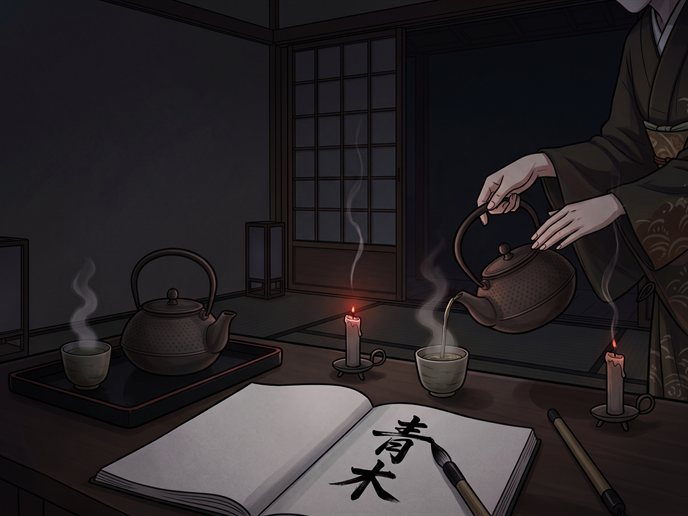
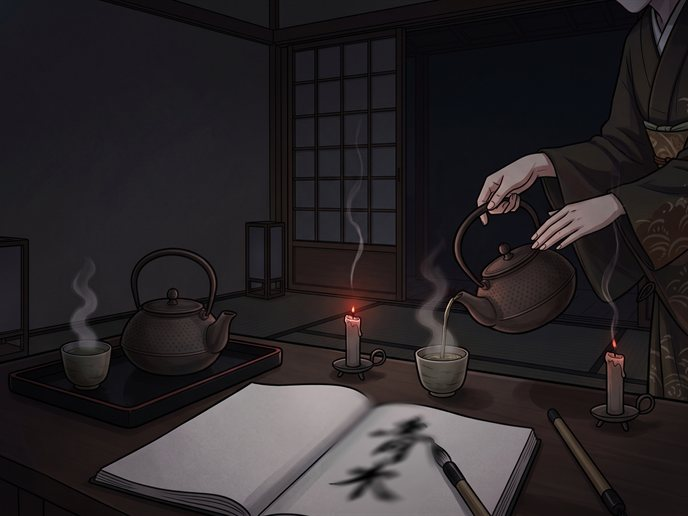
Smudge the name written in the guest book at midnight
The generated scene wrote a legible name on the page - the kanji 青犬, which
a Japanese reader reads as words rather than as a name. The guest book scene
in Ending 5 keeps its ink illegible for the same reason.

Asking the model for an illegible signature came back worse: a scrawl across
both pages. So the ink in this one is dragged instead - 26px each way along
the brush, with a 6px softening, blended inside a feathered ellipse in the
2400 x 1792 source. The edit has no edge of its own, and the brush, the
teapot, her hands and the candles are untouched.

The file is 42 KB at the same 688 x 516 and mean brightness 40. DESIGN.md
records the recipe, so it can be redone if the source is ever regenerated.

Changed region(s): [[0.4884, 0.7442, 0.641, 0.9922]]

diff --git a/DESIGN.md b/DESIGN.md
@@ -630,6 +630,14 @@ says the curse is behind you.
   the picture is the moment *after* midnight, the night already decided. At a
   mean brightness of 39 out of 255 it is by far the darkest of the eight, and
   the HUD still reads over it because its washi panel is 90% opaque.
+  **The name on the page is smudged on purpose.** What came back from the
+  model was legible kanji (青犬), which a Japanese reader reads as words, not
+  as a name; the guest book scene keeps its ink illegible for the same reason.
+  Asking for an illegible signature was worse — the model scrawled over both
+  pages — so the ink was dragged instead: 26px each way along the brush and a
+  6px softening, blended inside an ellipse (centre 1335, 1585, radii 150 ×
+  200, 70px fade) in the 2400 × 1792 source, so the edit has no edge of its
+  own and nothing else in the frame is touched.
 
 **The HUD follows the picture.** Its last line is normally her suspicion
 ("She is pouring tea."), but once the night has resolved her suspicion is
